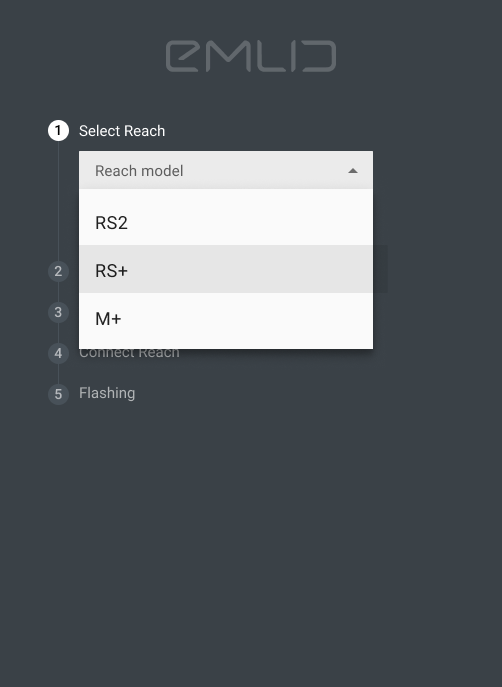
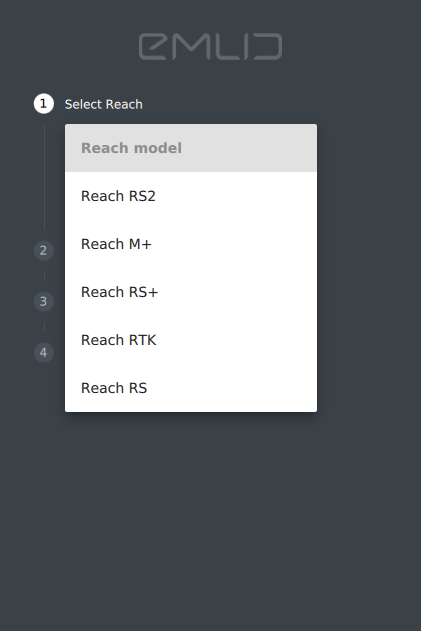
docs: reach: reflashing: update instructions

diff --git a/docs/reach/common/reachview/firmware-reflashing.md b/docs/reach/common/reachview/firmware-reflashing.md
@@ -5,6 +5,46 @@ Note that you **do not** need to do this unless you want to bring Reach to its i
 !!! tip ""
 	Most new features are released via ReachView app and can be updated simply via its interface. More information on how to update ReachView app is available in [introduction section](../../reachview/#updating).
 
+## Reach Firmware Flash Tool installation
+
+!!! note "" 
+	In the meantime, please use **Windows** or **Linux** operating systems to flash your Reach devices. Flash Tool for **Mac OS X** is coming soon.
+	
+* Get the Reach Firmware Flash Tool:
+
+<center>
+	
+|Windows|Linux|
+|:-------------:|:----------:|
+|[Download [EXE, 81.9 MB]](http://files.emlid.com/flash-tools/win/reach-firmware-flash-tool_1.2.0_setup.exe)|[Download [DEB, 109.8 MB]](http://files.emlid.com/flash-tools/linux/reach-firmware-flash-tool_1.2.0_amd64.deb)|
+
+</center>
+
+### Window installation
+
+* Double click on the downloaded file
+	
+* Follow the instructions to install Reach Firmware Flash Tool on your PC
+
+* If you have got Reach RS / RTK devices, install the [Intel Edison Driver](http://files.emlid.com/firmware-reflashing-tool/IntelEdisonDriverSetup1.2.1.exe)
+
+* Reboot your PC
+
+### Linux installation
+
+We recommend using the terminal to install the Flash Tool on your Linux PC. Follow these steps to accomplish it:
+
+* Press `Ctrl+Alt+T` to open the terminal
+* Navigate to the directory with the downloaded file with `cd ~/Downloads` command
+* Run `sudo dpkg -i reach-firmware-flash-tool_1.2.0_amd64.deb` to start installation
+
+!!! danger ""
+	Please confirm adding the current user to `plugdev`, `dialout` and `lpadmin` groups during the installation process. In case of a negative answer, the application might not work as expected.
+
+* Reboot your PC
+
+## Firmware reflashing
+
 ??? note "Firmware Flash Guide for Reach RS2 / RS+ / M+"
 
 	### Reach RS2 / RS+ / M+ firmware download
@@ -15,29 +55,9 @@ Note that you **do not** need to do this unless you want to bring Reach to its i
 	
 	|For Reach RS2|For Reach RS+ / M+|
 	|:-------------:|:-------------:|
-	|[**Reach RS2 Image v2.20.7 [ZIP, 358.7 MB]**](http://files.emlid.com/images/reach-rs2-v2.20.7.zip), [(md5)](http://files.emlid.com/images/reach-rs2-MD5SUMS)|[**Reach RS+/M+ Image v2.18 [ZIP, 347 MB]**](http://files.emlid.com/images/reach-plus-v2.18.1.zip), [(md5)](http://files.emlid.com/images/reach-plus-MD5SUMS)|
+	|[**Reach RS2 Image v2.20.8 [ZIP, 369.7 MB]**](http://files.emlid.com/images/reach-rs2-v2.20.8.zip), [(md5)](http://files.emlid.com/images/reach-rs2-MD5SUMS)|[**Reach RS+/M+ Image v2.20.8 [ZIP, 369.8 MB]**](http://files.emlid.com/images/reach-plus-v2.20.8.zip), [(md5)](http://files.emlid.com/images/reach-plus-MD5SUMS)|
 
 	</center>
-	
-
-	### Reach Firmware Flash Tool download
-
-	!!! note "" 
-		In the meantime, please use **Windows** or **Linux** operating systems to flash your Reach RS2 / RS+ / M+ devices. Flash Tool for **Mac OS X** is coming soon.
-	
-	* Get the Reach Firmware Flash Tool:
-
-	<center>
-	
-	|Windows|Linux|
-	|:-------------:|:----------:|
-	|[Download [EXE, 79.9 MB]](http://files.emlid.com/flash-tools/win/reach-firmware-flash-tool_1.1.3_setup.exe)|[Download [DEB, 53.9 MB]](http://files.emlid.com/flash-tools/linux/reach-firmware-flash-tool_1.1.3_amd64.deb)|
-
-	</center>
-
-	* Double click on the downloaded file
-	
-	* Follow the instructions to install Reach Firmware Flash Tool on your PC
 
 	### Flashing process
 
@@ -45,83 +65,63 @@ Note that you **do not** need to do this unless you want to bring Reach to its i
 
 	<p style="text-align:center" ><img src="../img/reachview/firmware-reflashing/app-step1-device-select.png" style="width: 300px;" /></p>
 
-	<!-- delete part with RS -->
+	* Connect Reach in Firmware Update mode
 
-	* Select ReachView firmware .img file
+		??? note "Steps for RS2 device"
+			
+			* Make sure that **Reach RS2** is turned off
+			
+			* Press and hold the power button
+			
+			* Plug the USB cable into PC
 
-	<p style="text-align:center" ><img src="../img/reachview/firmware-reflashing/app-step2-image-select.png" style="width: 300px;" /></p>
+			* Release the power button
 
-	* Disconnect all Reach units. If there are none, Flash Tool will automatically skip this step
+			* All LEDs should blink several times simultaneously, and then start blinking one after another
+			<br> <p style="text-align:center" ><img src="../img/reachview/firmware-reflashing/connect_fel_rs2.webp" style="width: 400px;" /></p>
+
+		??? note "Steps for RS+ device"
+			
+			* Make sure that **Reach RS+** is turned off
+
+			* Press and hold the power button
+			
+			* Plug the USB cable into PC
+
+			* Release the power button
+
+			* All LEDs should blink several times simultaneously, and then start blinking one after another 
+			<br> <p style="text-align:center" ><img src="../img/reachview/firmware-reflashing/connect_fel_rsplus.webp" style="width: 400px;" /></p>
+		
+		??? note "Steps for M+ device"
+			
+			* Make sure that **Reach M+** is disconnected from the PC
+
+			* Use a pin to press and hold the button located in the deepening under the power LED
+
+			* Plug the USB into PC. No LEDs should blink
+
+			* Release the button
+			<br> <p style="text-align:center" ><img src="../img/reachview/firmware-reflashing/connect_fel_mplus.webp" style="width: 400px;" /></p>
+
+	* Select ReachView firmware .img file and click on _Flash_
 	
-	<p style="text-align:center" ><img src="../img/reachview/firmware-reflashing/app-step3-disconnect-devices.png" style="width: 300px;" /></p>
-
-	* Connect Reach device and turn it on. "Reach connected" message will appear
-
-	<p style="text-align:center" ><img src="../img/reachview/firmware-reflashing/app-step4-connected-reach.png" style="width: 300px;" /></p>
+	<p style="text-align:center" ><img src="../img/reachview/firmware-reflashing/app-step3-select-firmware-rs2.png" style="width: 300px;" /></p>
 
 	* Wait until the end of the flashing process
 
-	<p style="text-align:center" ><img src="../img/reachview/firmware-reflashing/app-step5-flashing.png" style="width: 300px;" /></p>
+	<p style="text-align:center" ><img src="../img/reachview/firmware-reflashing/app-step4-flashing-rs2.png" style="width: 300px;" /></p>
 
 	* After reflashing, Reach will reboot
 
 	!!! danger ""
 		Do not unplug the Reach on this step.
 
-	<p style="text-align:center" ><img src="../img/reachview/firmware-reflashing/app-step5-rebooting.png" style="width: 300px;" /></p>
+	<p style="text-align:center" ><img src="../img/reachview/firmware-reflashing/app-step5-rebooting-rs2.png" style="width: 300px;" /></p>
 
 	* When Reach successfully reboots, you'll see "Reach is flashed and ready to use" message
 
-	<p style="text-align:center" ><img src="../img/reachview/firmware-reflashing/app-step5-flashed-reach.png" style="width: 300px;" /></p>
-
-	??? danger ""Flashing failed" error troubleshooting"
-
-		If you faced "Flashing failed" error, we recommend following the next steps:
-
-		<p style="text-align:center" ><img src="../img/reachview/firmware-reflashing/app-flashing-failed.png" style="width: 300px;" /></p>
-
-		??? note "Steps for RS2 device"
-			
-			* Disconnect **Reach RS2** device from the PC
-			
-			* Hold the power button for 10 seconds until Reach turns off
-
-			* Press *Try again* button in the Reach Firmware Flash Tool on PC
-
-			* Now you need to enter Firmware Update Mode. To enable it on Reach RS2 press and hold the power button and then plug the USB into PC. All LEDs should blink several times simultaneously, and then start blinking one after another
-			<br> <p style="text-align:center" ><img src="../img/reachview/firmware-reflashing/failed-rs2.gif" style="width: 400px;" /></p>
-
-
-		??? note "Steps for RS+ device"
-			
-			* Disconnect **Reach RS+** device from the PC
-			
-			* Hold the power button for 10 seconds until Reach turns off
-
-			* Press *Try again* button in the Reach Firmware Flash Tool on PC
-
-			* Now you need to enter Firmware Update Mode. To enable it on Reach RS+ press and hold the power button and then plug the USB into PC. All LEDs should blink several times simultaneously, and then start blinking one after another 
-			<br> <p style="text-align:center" ><img src="../img/reachview/firmware-reflashing/failed-rs-plus.gif" style="width: 400px;" /></p>
-		
-		
-		??? note "Steps for M+ device"
-			
-			* Disconnect **Reach M+** device from the PC
-
-			* Press *Try again* button in the Reach Firmware Flash Tool on PC
-
-			* Now you need to enter Firmware Update Mode. To enable Firmware Update mode on Reach M+ use a pin to press and hold the button, located in the deepening under the power LED and then plug the USB into PC. No LEDs should blink
-			<br> <p style="text-align:center" ><img src="../img/reachview/firmware-reflashing/failed-m-plus.gif" style="width: 400px;" /></p>
-
-	### After flashing
-
-	If the flashing has been completed successfully, you will see "Reach is flashed and ready to use" message. You may disconnect your Reach at this point.
-
-	Proceed to Quickstart section to set up your Reach RS2, RS+ or Reach M+:
-
-	* [Quickstart for Reach RS2](https://docs.emlid.com/reachrs2/quickstart/)
-	* [Quickstart for Reach RS+](https://docs.emlid.com/reachrs/quickstart/first-setup)
-	* [Quickstart for Reach M+](https://docs.emlid.com/reachm-plus/quickstart/)
+	<p style="text-align:center" ><img src="../img/reachview/firmware-reflashing/app-step5-flashed-rs2.png" style="width: 300px;" /></p>
 
 ??? note "Firmware Flash Guide for Reach RS / RTK"
 
@@ -131,110 +131,34 @@ Note that you **do not** need to do this unless you want to bring Reach to its i
 
 	<center>
 	
-	|Stable firmware image|Dev firmware image|
-	|:-------------:|:------------:|
-	|[**Reach Image v2.18 [ZIP, 234 MB]**](https://files.emlid.com/images/ReachImage_v2.18.1.zip), [(md5)](https://files.emlid.com/images/reachview-MD5SUMS)|[**Reach Image v2.21 [ZIP, 234 MB]**](http://files.emlid.com/images/reach-rs-v2.21.0-dev.zip), [(md5)](https://files.emlid.com/images/reachview-MD5SUMS)|
+	|For Reach RS / RTK|
+	|:-------------:|
+	|[**Reach Image v2.20.8 [ZIP, 252.3 MB]**](http://files.emlid.com/images/ReachImage_v2.20.8.zip), [(md5)](https://files.emlid.com/images/reachview-MD5SUMS)|
 
 	</center>
 
-	### Flashing process for v2.18
-
-	??? note "Steps for Windows"
-
-		#### Windows
-
-		Before flashing:
-
-		* Install [Intel Edison driver](http://files.emlid.com/firmware-reflashing-tool/IntelEdisonDriverSetup1.2.1.exe)
-		* Unzip the downloaded image
-		* Download copy of [dfu-util.exe](https://files.emlid.com/images/dfu-util/dfu-util.exe) and [libusb-1.0.dll](https://files.emlid.com/images/dfu-util/libusb-1.0.dll)
-		* Place these files in the same folder as the image files
-		* Unplug Reach if it's plugged in
-
-		To flash:
-
-		1. Navigate to the image directory
-		2. Run `flashall.bat`
-		3. Plug Reach in
-		4. Monitor progress in the terminal window
-		5. Proceed to "After flashing" section below
-
-
-	??? note "Steps for Mac OS X"
-		
-		#### Mac OS X
-
-		Before flashing:
-
-		* Unzip downloaded image
-		* Install **[homebrew](http://brew.sh)**
-		* Install dependencies with `brew install dfu-util coreutils gnu-getopt lsusb`
-		* Unplug Reach if it's plugged in
-
-		To flash:
-
-		1. `cd` into the image directory
-		2. Run `./flashall.sh`
-		3. Plug Reach in
-		4. Monitor progress in the terminal window
-		5. Proceed to "After flashing" section below
-
-
-	??? note "Steps for Linux"
-
-		#### Linux
-
-		Before flashing:
-
-		* Unzip downloaded image
-		* Install dfu-util with `sudo apt-get install dfu-util`
-		* Unplug Reach if it's plugged in
-
-		To flash:
-
-		1. `cd` into the image directory
-		2. Run `sudo ./flashall.sh`
-		3. Plug Reach in
-		4. Monitor progress in the terminal window
-		5. Proceed to "After flashing" section below
-
-	### Flashing process for v2.21
-
-	* Get the Reach Firmware Flash Tool:
-
-	<center>
-	
-	|Windows|Linux|
-	|:-------------:|:----------:|
-	|[Download [EXE, 79.9 MB]](http://files.emlid.com/flash-tools/win/reach-firmware-flash-tool_1.1.3_setup.exe)|[Download [DEB, 53.9 MB]](http://files.emlid.com/flash-tools/linux/reach-firmware-flash-tool_1.1.3_amd64.deb)|
-
-	</center>
-
-	* Double click on the downloaded file
-	
-	* Follow the instructions to install Reach Firmware Flash Tool on your PC
-
-	* Install the [Intel Edison Driver](http://files.emlid.com/firmware-reflashing-tool/IntelEdisonDriverSetup1.2.1.exe)
+	### Flashing process
 
 	* Open Reach Firmware Flash Tool and choose Reach model
 
-	<p style="text-align:center" ><img src="../img/reachview/firmware-reflashing/app-step1-device-select-rs.png" style="width: 300px;" /></p>
+	<p style="text-align:center" ><img src="../img/reachview/firmware-reflashing/app-step1-device-select.png" style="width: 300px;" /></p>
 
-	* Select ReachView firmware .zip file
+	* Connect Reach. Follow the steps for your device
 
-	<p style="text-align:center" ><img src="../img/reachview/firmware-reflashing/app-step2-image-select-rs.png" style="width: 300px;" /></p>
+	<p style="text-align:center" ><img src="../img/reachview/firmware-reflashing/app-step2-connect-rs.png" style="width: 300px;" /></p>
 
-	* Disconnect all Reach units. If there are none, Flash Tool will automatically skip this step
-	
-	<p style="text-align:center" ><img src="../img/reachview/firmware-reflashing/app-step3-disconnect-devices-rs.png" style="width: 300px;" /></p>
+	??? danger ""Not suitable USB port" error" 
+		If you face "USB port not suitable for flashing" error, disconnect Reach, turn it off and try another USB port.
+		<p style="text-align:center" ><img src="../img/reachview/firmware-reflashing/app-step2-choose-usb-rs.png" style="width: 300px;" /></p>
 
-	* Connect Reach device and turn it on. "Reach connected" message will appear
 
-	<p style="text-align:center" ><img src="../img/reachview/firmware-reflashing/app-step4-connected-reach-rs.png" style="width: 300px;" /></p>
+	* Select ReachView firmware .zip file and press _Flash_
+
+	<p style="text-align:center" ><img src="../img/reachview/firmware-reflashing/app-step3-select-firmware-rs.png" style="width: 300px;" /></p>
 
 	* Wait until the end of the flashing process
 
-	<p style="text-align:center" ><img src="../img/reachview/firmware-reflashing/app-step5-flashing-rs.png" style="width: 300px;" /></p>
+	<p style="text-align:center" ><img src="../img/reachview/firmware-reflashing/app-step4-flashing-rs.png" style="width: 300px;" /></p>
 
 	* After reflashing, Reach will reboot
 
@@ -243,17 +167,14 @@ Note that you **do not** need to do this unless you want to bring Reach to its i
 
 	* When Reach successfully reboots, you'll see "Reach is flashed and ready to use" message
 
-	<p style="text-align:center" ><img src="../img/reachview/firmware-reflashing/app-step5-flashed-reach-rs.png" style="width: 300px;" /></p>
+	<p style="text-align:center" ><img src="../img/reachview/firmware-reflashing/app-step4-flashed-rs.png" style="width: 300px;" /></p>
 
-	## After flashing
+## After flashing
 
-	After the initial process is done, Reach will reboot. 
-	
-	!!! danger ""
-		Do not unplug it until it reboots and goes through the initial setup process completely.
+Proceed to Quickstart section to set up your Reach device:
 
-
-	Proceed to Quickstart section to set up your Reach RS / RTK:
-
-	* [Quickstart for Reach RS](https://docs.emlid.com/reachrs/quickstart/first-setup)
-	* [Quickstart for Reach RTK](https://docs.emlid.com/reach/quickstart/)
+* [Quickstart for Reach RS2](https://docs.emlid.com/reachrs2/quickstart/)
+* [Quickstart for Reach RS+](https://docs.emlid.com/reachrs/quickstart/first-setup)
+* [Quickstart for Reach M+](https://docs.emlid.com/reachm-plus/quickstart/)
+* [Quickstart for Reach RS](https://docs.emlid.com/reachrs/quickstart/first-setup)
+* [Quickstart for Reach RTK](https://docs.emlid.com/reach/quickstart/)
